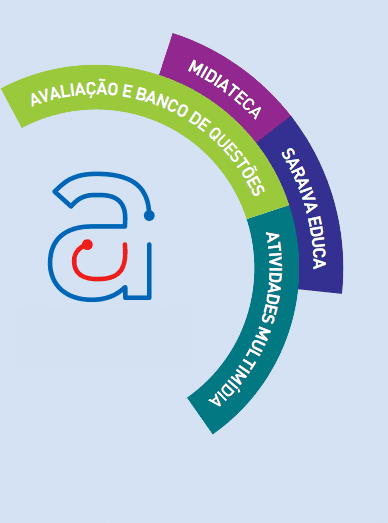
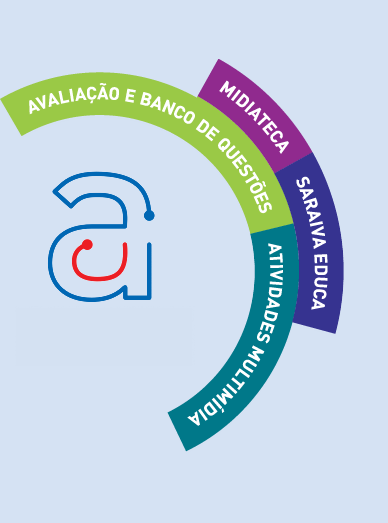
menu novo pro ie8

diff --git a/index.html b/index.html
@@ -61,10 +61,10 @@
     <!--<![endif]-->
     <!--[if lt IE 9]>
     <map id="imagemap" name="imagemap">
-      <area shape="poly" id="hover_avaliacao"             href="./avaliacao" coords="1,89,21,129,47,118,84,109,122,111,172,127,215,161,242,205,247,220,289,205,267,158,233,118,180,84,120,62,60,66,16,80" />
-      <area shape="poly" id="hover_midiateca"             href="./midiateca" coords="158,75,193,87,231,116,258,144,292,116,254,78,196,40,172,33" />
-      <area shape="poly" id="hover_atividades_multimidia" href="./licoes" coords="246,220,289,206,295,233,300,262,297,294,290,329,273,368,250,400,216,432,188,398,221,368,242,330,252,295,253,251" />
-      <area shape="poly" id="hover_saraiva_educa"         href="./saraiva" coords="257,143,290,115,302,133,320,165,338,212,344,260,341,295,298,288,299,255,294,221,279,179" />
+      <area shape="poly" id="hover_avaliacao"             href="./avaliacao" coords="1,98,20,137,53,122,89,115,126,116,162,128,196,148,223,175,246,218,251,234,296,222,274,175,251,140,198,96,141,76,70,74,25,87" />
+      <area shape="poly" id="hover_midiateca"             href="./midiateca" coords="197,95,218,58,255,81,283,109,311,148,313,154,275,173,250,136,218,110" />
+      <area shape="poly" id="hover_atividades_multimidia" href="./licoes" coords="250,235,255,269,250,307,240,342,205,387,168,413,187,452,231,422,262,386,288,339,299,285,298,253,294,224" />
+      <area shape="poly" id="hover_saraiva_educa"         href="./saraiva" coords="275,173,312,152,328,185,341,236,344,294,335,333,291,321,298,292,299,238,284,195" />
     </map>
     <img id ="imagemap_bg" src="./img/iefallback_home.png" usemap="#imagemap">
     <![endif]-->
